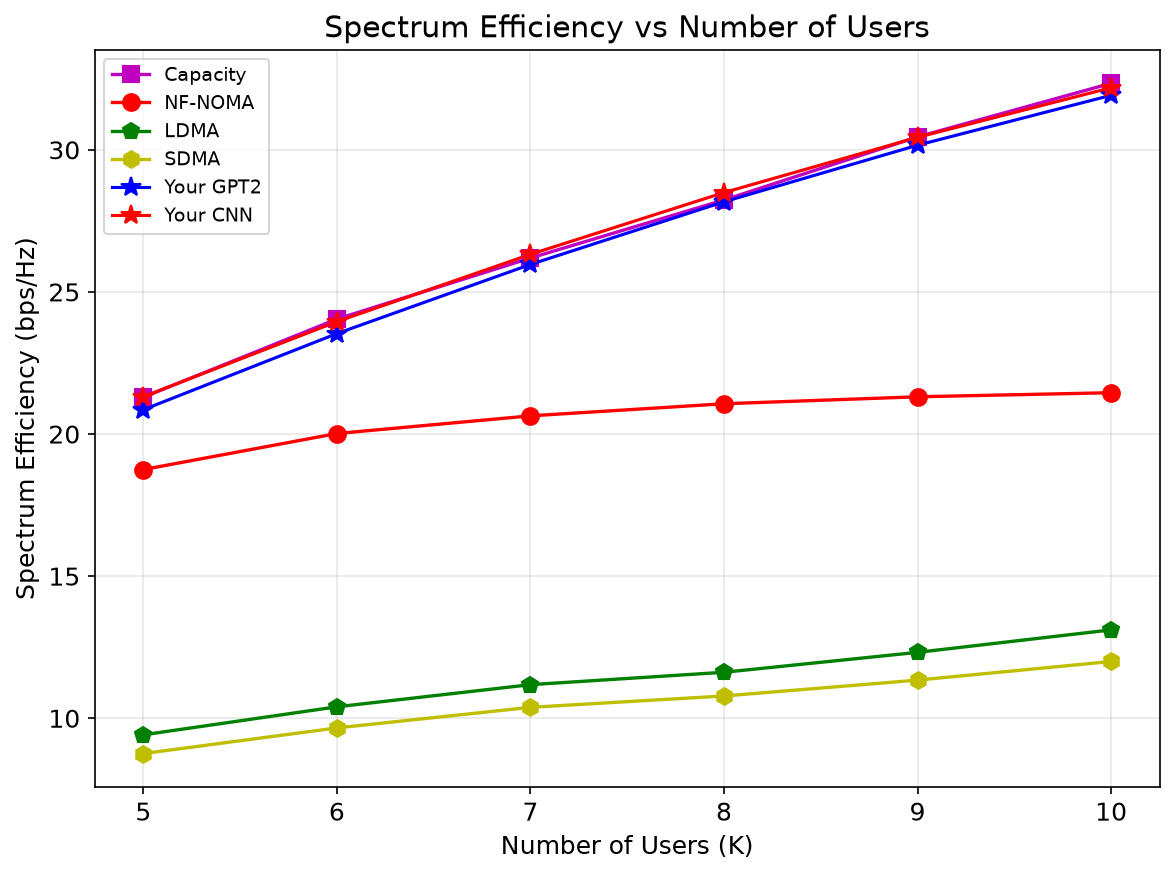
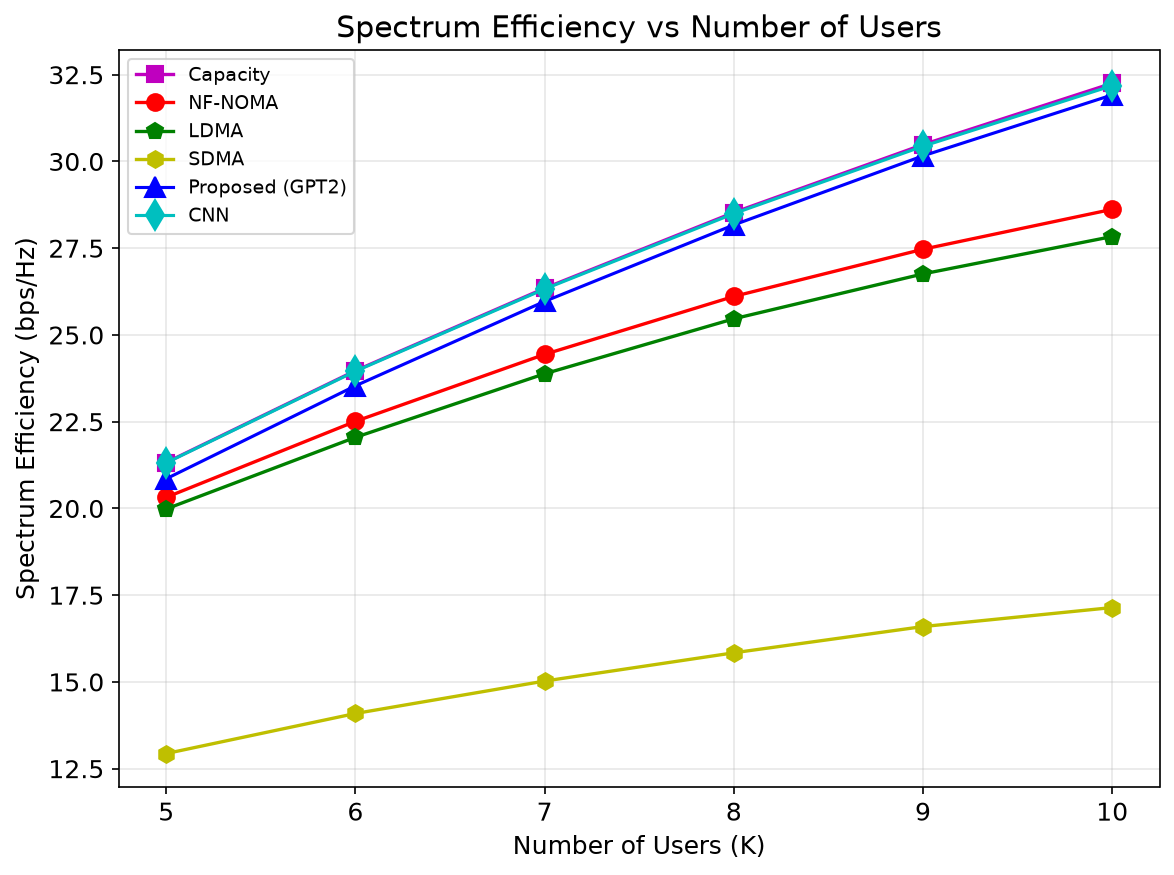
[基线] 重写NOMA/LDMA/SDMA，修复Fig.6/Fig.9
- LDMA: 实现beam grouping + group-level ZF (匹配作者NF_group_1)
- SDMA: DFT码本方向数从128增至256，全局Frobenius归一化
- NOMA: beam grouping + ZF跨beam + SLSQP功率优化 + SIC解码
- 结果: LDMA 11.82→27.84, NOMA 19.38→28.62, SDMA 12.31→17.14

diff --git a/eval_baselines.py b/eval_baselines.py
@@ -208,45 +208,121 @@ def dpc_rate(H_complex, sigma2, P_total):
 
 def noma_rate(H_complex, sigma2, P_total):
     """
-    Near-field NOMA: MRT beamforming + SIC + dynamic power allocation.
-    Paper [34]: near-field NOMA with dynamic power allocation algorithm.
-    MRT beamforming uses the full channel for maximum signal gain.
+    Near-field NOMA: beam grouping + ZF across beams + NOMA within beams.
+    Author's NF_NOMA.m: F from NF_group_1, then fmincon power optimization.
+    ZF eliminates inter-beam interference; NOMA with SIC within each beam.
     """
+    from scipy.optimize import minimize
+
     batch, K, _ = H_complex.shape
     H_np = H_complex.detach().cpu().numpy().astype(np.complex128)
     sum_rates = np.zeros(batch)
     single_rates = np.zeros((batch, K))
 
+    best_idx = assign_nearest(H_complex, POLAR_CB)
+
     for b in range(batch):
-        H_b = H_np[b]  # [K, N]
-        # MRT beamforming: w_k = h_k / ||h_k||, signal gain = ||h_k||^2
-        gains = np.array([np.linalg.norm(H_b[k]) ** 2 for k in range(K)])
-        # SIC decoding order: strongest channel first (descending)
-        order = np.argsort(gains)[::-1]
+        H_b = H_np[b]
 
-        # Dynamic power allocation: weaker users get more power
-        # Paper [34] uses exponential allocation favoring weaker users
-        raw_power = np.array([2.0 ** (i + 1) for i in range(K)])
-        raw_power = raw_power / raw_power.sum() * P_total
-        P_k = np.zeros(K)
-        for idx, k in enumerate(order):
-            P_k[k] = raw_power[idx]
+        # --- Beam grouping (same as LDMA) ---
+        beam_of_user = best_idx[b]
+        beam_groups = {}
+        for k in range(K):
+            bi = beam_of_user[k]
+            if bi not in beam_groups:
+                beam_groups[bi] = []
+            beam_groups[bi].append((k, np.sum(np.abs(H_b[k]) ** 2)))
+        for bi in beam_groups:
+            beam_groups[bi].sort(key=lambda x: -x[1])
 
-        # Compute SINR with SIC
-        rate_sum = 0
-        for decode_idx, k in enumerate(order):
-            hk = H_b[k] / np.linalg.norm(H_b[k])  # MRT beamformer
-            signal = P_k[k] * gains[k]
-            interf = 0
-            # SIC: decode stronger users first, subtract their interference
-            for j_idx in range(decode_idx + 1, K):
-                j = order[j_idx]
-                hj = H_b[j] / np.linalg.norm(H_b[j])
-                interf += P_k[j] * np.abs(np.vdot(hk, hj)) ** 2
-            sinr_k = signal / (interf + sigma2)
-            rate_k = np.log2(1 + sinr_k)
-            single_rates[b, k] = rate_k
-            rate_sum += rate_k
+        beam_list = sorted(beam_groups.keys())
+        strong_users = [beam_groups[bi][0][0] for bi in beam_list]
+
+        # --- ZF among strong users (eliminates inter-beam interference) ---
+        H_reduce = H_b[strong_users, :]
+        F_zf = np.linalg.pinv(H_reduce)  # [N, rf_num]
+        F_total = np.zeros((H_b.shape[1], K), dtype=np.complex128)
+        for i, bi in enumerate(beam_list):
+            for k, _ in beam_groups[bi]:
+                F_total[:, k] = F_zf[:, i]
+
+        # --- Frobenius normalization ---
+        norm_F = np.linalg.norm(F_total, 'fro')
+        if norm_F > 1e-10:
+            F_total = F_total / norm_F * np.sqrt(P_total)
+
+        # --- Effective channel (ZF → diagonal, only intra-beam interference) ---
+        H_eq = np.matmul(H_b, F_total)  # [K, K]
+        diag_gain = np.array([np.abs(H_eq[k, k]) ** 2 for k in range(K)])
+
+        # Intra-beam interference |h_k^H v_j|^2 (only same-beam users)
+        intra_coeff = np.zeros((K, K))
+        for bi in beam_list:
+            users_in_beam = [u for u, _ in beam_groups[bi]]
+            for k in users_in_beam:
+                for j in users_in_beam:
+                    if j != k:
+                        intra_coeff[k, j] = np.abs(H_eq[k, j]) ** 2
+
+        # --- Optimize power per beam (SLSQP) ---
+        p_opt = np.zeros(K)
+        Rmin = 0.01
+
+        for bi in beam_list:
+            users_in_beam = [u for u, _ in beam_groups[bi]]
+            n_u = len(users_in_beam)
+
+            # Author init: p ∝ m × gain (strongest m=1)
+            p0 = np.array([(m + 1) * diag_gain[users_in_beam[m]]
+                           for m in range(n_u)])
+            p0 = p0 / p0.sum()
+
+            if n_u <= 1:
+                p_opt[users_in_beam[0]] = 1.0
+                continue
+
+            def neg_rate(p_b, _uib=users_in_beam):
+                rs = 0.0
+                for m, u in enumerate(_uib):
+                    intf = sum(intra_coeff[u, j] * p_b[m2]
+                               for m2, j in enumerate(_uib) if j != u)
+                    sinr = diag_gain[u] * p_b[m] / (intf + sigma2)
+                    rs += np.log2(1 + sinr)
+                return -rs
+
+            cons = [{'type': 'eq', 'fun': lambda p: np.sum(p) - 1.0}]
+            for m in range(n_u):
+                cons.append({'type': 'ineq', 'fun': lambda p, m=m: p[m]})
+                def min_r(p, m=m, _uib=users_in_beam):
+                    u = _uib[m]
+                    intf = sum(intra_coeff[u, j] * p[m2]
+                               for m2, j in enumerate(_uib) if j != u)
+                    sinr = diag_gain[u] * p[m] / (intf + sigma2)
+                    return np.log2(1 + sinr) - Rmin
+                cons.append({'type': 'ineq', 'fun': min_r})
+
+            res = minimize(neg_rate, p0, method='SLSQP',
+                           bounds=[(0, 1)] * n_u, constraints=cons,
+                           options={'maxiter': 50, 'ftol': 1e-10})
+            for m, u in enumerate(users_in_beam):
+                p_opt[u] = res.x[m]
+
+        # --- Final sum-rate with SIC per beam ---
+        rate_sum = 0.0
+        for bi in beam_list:
+            users_in_beam = [u for u, _ in beam_groups[bi]]
+            # SIC order: strongest effective channel first
+            users_sorted = sorted(users_in_beam, key=lambda u: -diag_gain[u])
+            for decode_idx, k in enumerate(users_sorted):
+                # Interference from not-yet-decoded users in same beam
+                interf = 0.0
+                for j in users_sorted:
+                    if users_sorted.index(j) > decode_idx:
+                        interf += intra_coeff[k, j] * p_opt[j]
+                sinr = diag_gain[k] * p_opt[k] / (interf + sigma2)
+                r_k = np.log2(1 + sinr)
+                single_rates[b, k] = r_k
+                rate_sum += r_k
         sum_rates[b] = rate_sum
 
     return (torch.tensor(sum_rates, dtype=torch.float32).to(device),
